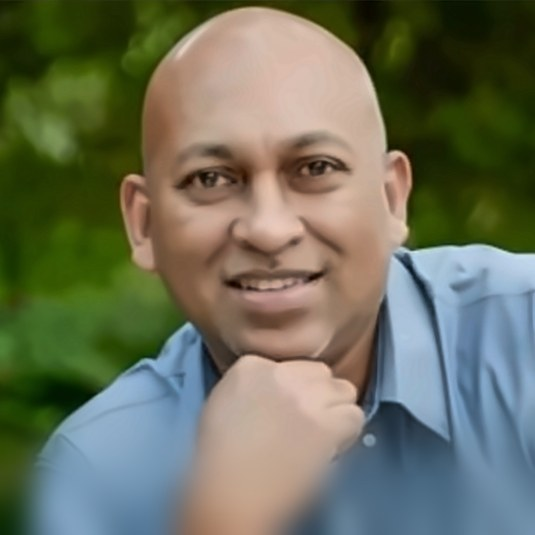
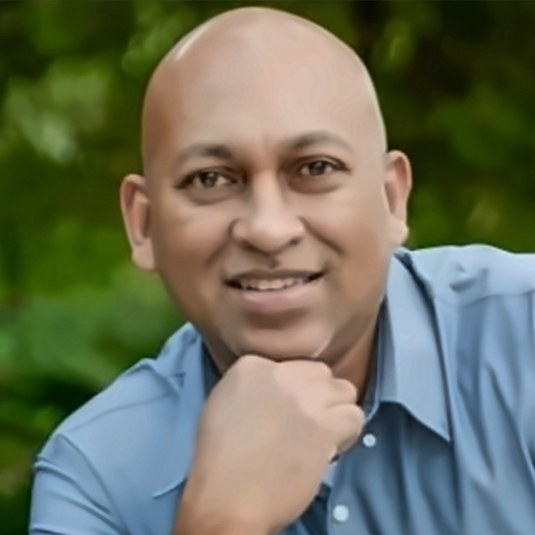
About: Mark Peters photo without bottom blur
Claude-Session: https://claude.ai/code/session_01YXHXMRuwfuFx1RTxhNLRGp

diff --git a/about.html b/about.html
@@ -141,7 +141,7 @@ a{color:#2F4858}a:hover{color:#1E3240}
     <div style="display: grid; grid-template-columns: repeat(auto-fit, minmax(260px, 1fr)); gap: 24px">
             <div style="display: flex; flex-direction: column; gap: 10px"><img src="assets/pastor-tricia.jpg" alt="Pastor Tricia Persram" width="535" height="535" loading="lazy" style="width: 100%; height: auto; aspect-ratio: 1 / 1; object-fit: cover; border-radius: 14px; display: block"><span style="font-family: 'Libre Baskerville', serif; font-size: 20px; font-weight: 700">Tricia Persram</span><span style="font-size: 16px; color: #4F6676">Family Care Pastor</span><span style="font-size: 15px; line-height: 1.5; color: #3B5566">Oversees Children, Youth &amp; Next Generation and Care &amp; Compassion</span></div>
       <div style="display: flex; flex-direction: column; gap: 10px"><img src="assets/pastor-dan.jpg" alt="Pastor Dan Nuñez" width="535" height="535" loading="lazy" style="width: 100%; height: auto; aspect-ratio: 1 / 1; object-fit: cover; border-radius: 14px; display: block"><span style="font-family: 'Libre Baskerville', serif; font-size: 20px; font-weight: 700">Dan Nuñez</span><span style="font-size: 16px; color: #4F6676">Connection Pastor</span><span style="font-size: 15px; line-height: 1.5; color: #3B5566">Oversees Fellowship, Evangelism &amp; Missions and Community Transformation</span></div>
-      <div style="display: flex; flex-direction: column; gap: 10px"><img src="assets/pastor-mark.jpg?v=2" alt="Mark Peters, Church Administrator" width="535" height="535" loading="lazy" style="width: 100%; height: auto; aspect-ratio: 1 / 1; object-fit: cover; border-radius: 14px; display: block"><span style="font-family: 'Libre Baskerville', serif; font-size: 20px; font-weight: 700">Mark Peters</span><span style="font-size: 16px; color: #4F6676">Church Administrator</span><span style="font-size: 15px; line-height: 1.5; color: #3B5566">Oversees Discipleship, Worship, Ministry Support, and Marriage &amp; Family and Senior Parents ministries</span></div>
+      <div style="display: flex; flex-direction: column; gap: 10px"><img src="assets/pastor-mark.jpg?v=3" alt="Mark Peters, Church Administrator" width="535" height="535" loading="lazy" style="width: 100%; height: auto; aspect-ratio: 1 / 1; object-fit: cover; border-radius: 14px; display: block"><span style="font-family: 'Libre Baskerville', serif; font-size: 20px; font-weight: 700">Mark Peters</span><span style="font-size: 16px; color: #4F6676">Church Administrator</span><span style="font-size: 15px; line-height: 1.5; color: #3B5566">Oversees Discipleship, Worship, Ministry Support, and Marriage &amp; Family and Senior Parents ministries</span></div>
     </div>
   </section>
 
